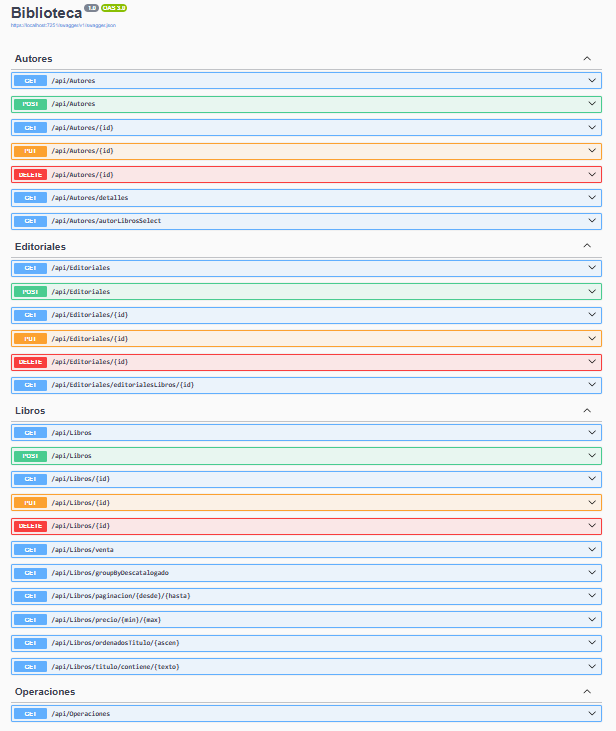
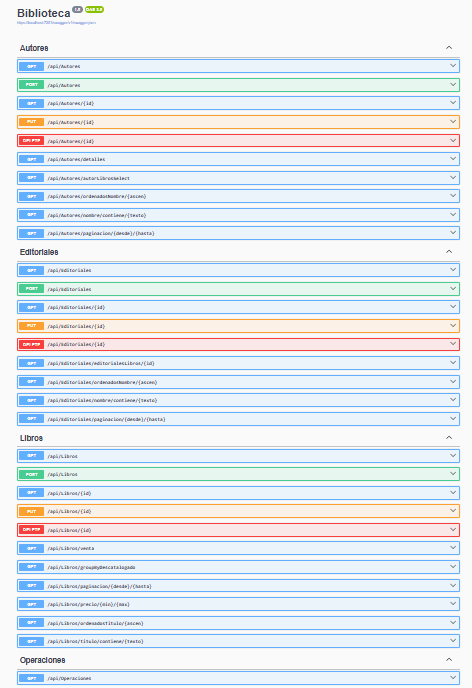
19.02.2025_Gets

Changed region(s): [[0.0, 0.0, 0.9788, 1.0]]

diff --git a/Biblioteca/Controllers/EditorialesController.cs b/Biblioteca/Controllers/EditorialesController.cs
@@ -1,4 +1,5 @@
 using Biblioteca.DTOs;
+using Biblioteca.Models;
 using Biblioteca.Services;
 using FluentValidation;
 using Microsoft.AspNetCore.Mvc;
@@ -53,6 +54,52 @@ namespace Biblioteca.Controllers
             }
 
             return Ok(editorial);
+        }
+
+        [HttpGet("ordenadosNombre/{ascen}")]
+        public async Task<ActionResult<IEnumerable<Editorial>>> GetEditorialesOrdenadasPorNombre(bool ascen)
+        {
+            await _operacionesService.AddOperacion("Obtener editoriales ordenadas por su nombre", "Editoriales");
+            var editoriales = await _editorialService.GetEditorialesOrdenadasPorNombre(ascen);
+
+            if (!editoriales.Any())
+            {
+                return NotFound("No se encontraron editoriales");
+            }
+
+            return Ok(editoriales);
+        }
+
+        [HttpGet("nombre/contiene/{texto}")]
+        public async Task<ActionResult<IEnumerable<Editorial>>> GetEditorialesPorNombreContiene(string texto)
+        {
+            await _operacionesService.AddOperacion("Obtener editoriales con el nombre que contiene", "Editoriales");
+            if (string.IsNullOrEmpty(texto))
+            {
+                return BadRequest("El texto de búsqueda no puede estar vacío.");
+            }
+
+            var editoriales = await _editorialService.GetEditorialesPorNombreContiene(texto);
+
+            if (!editoriales.Any())
+            {
+                return NotFound("No se encontraron editoriales que contengan el texto especificado.");
+            }
+
+            return Ok(editoriales);
+        }
+
+        [HttpGet("paginacion/{desde}/{hasta}")]
+        public async Task<ActionResult<IEnumerable<Editorial>>> GetEditorialesPaginados(int desde, int hasta)
+        {
+            await _operacionesService.AddOperacion("Obtener editoriales paginadas", "Editoriales");
+            if (hasta < desde)
+            {
+                return BadRequest("El máximo no puede ser inferior al mínimo");
+            }
+
+            var editoriales = await _editorialService.GetEditorialesPaginadas(desde, hasta);
+            return Ok(editoriales);
         }
 
         [HttpPost]

diff --git a/Biblioteca/Controllers/AutoresController.cs b/Biblioteca/Controllers/AutoresController.cs
@@ -1,4 +1,5 @@
 using Biblioteca.DTOs;
+using Biblioteca.Models;
 using Biblioteca.Services;
 using FluentValidation;
 using Microsoft.AspNetCore.Mvc;
@@ -67,6 +68,52 @@ namespace Biblioteca.Controllers
             }
 
             return Ok(autor);
+        }
+
+        [HttpGet("ordenadosNombre/{ascen}")]
+        public async Task<ActionResult<IEnumerable<Autor>>> GetAutoresOrdenadosPorNombre(bool ascen)
+        {
+            await _operacionesService.AddOperacion("Obtener autores ordenados por su nombre", "Autores");
+            var autores = await _autorService.GetAutoresOrdenadosPorNombre(ascen);
+
+            if (!autores.Any())
+            {
+                return NotFound("No se encontraron autores");
+            }
+
+            return Ok(autores);
+        }
+
+        [HttpGet("nombre/contiene/{texto}")]
+        public async Task<ActionResult<IEnumerable<Autor>>> GetAutoresPorNombreContiene(string texto)
+        {
+            await _operacionesService.AddOperacion("Obtener autores con el nombre que contiene", "Autores");
+            if (string.IsNullOrEmpty(texto))
+            {
+                return BadRequest("El texto de búsqueda no puede estar vacío.");
+            }
+
+            var autores = await _autorService.GetAutoresPorNombreContiene(texto);
+
+            if (!autores.Any())
+            {
+                return NotFound("No se encontraron autores que contengan el texto especificado.");
+            }
+
+            return Ok(autores);
+        }
+
+        [HttpGet("paginacion/{desde}/{hasta}")]
+        public async Task<ActionResult<IEnumerable<Autor>>> GetAutoresPaginados(int desde, int hasta)
+        {
+            await _operacionesService.AddOperacion("Obtener autores paginados", "Autores");
+            if (hasta < desde)
+            {
+                return BadRequest("El máximo no puede ser inferior al mínimo");
+            }
+
+            var autores = await _autorService.GetAutoresPaginados(desde, hasta);
+            return Ok(autores);
         }
 
         [HttpPost]

diff --git a/Biblioteca/Repository/EditorialRepository.cs b/Biblioteca/Repository/EditorialRepository.cs
@@ -38,6 +38,37 @@ namespace Biblioteca.Repository
             return editorial;
         }
 
+        public async Task<IEnumerable<Editorial>> GetEditorialesOrdenadasPorNombre(bool ascendente)
+        {
+            if (ascendente)
+            {
+                return await _context.Editoriales.OrderBy(x => x.Nombre).ToListAsync();
+            }
+            else
+            {
+                return await _context.Editoriales.OrderByDescending(x => x.Nombre).ToListAsync();
+            }
+        }
+
+        public async Task<IEnumerable<Editorial>> GetEditorialesPorNombreContiene(string texto)
+        {
+            return await _context.Editoriales
+                                 .Where(x => x.Nombre.Contains(texto))
+                                 .ToListAsync();
+        }
+
+        public async Task<IEnumerable<Editorial>> GetEditorialesPaginadas(int desde, int hasta)
+        {
+            if (hasta < desde)
+            {
+                throw new ArgumentException("El máximo no puede ser inferior al mínimo");
+            }
+
+            return await _context.Editoriales
+                .Skip(desde - 1)
+                .Take(hasta - desde + 1)
+                .ToListAsync();
+        }
         public async Task Add(Editorial editorial) =>
             await _context.Editoriales.AddAsync(editorial);
 

diff --git a/Biblioteca/Repository/AutorRepository.cs b/Biblioteca/Repository/AutorRepository.cs
@@ -54,6 +54,37 @@ namespace Biblioteca.Repository
                 .FirstOrDefaultAsync();
         }
 
+        public async Task<IEnumerable<Autor>> GetAutoresOrdenadosPorNombre(bool ascendente)
+        {
+            if (ascendente)
+            {
+                return await _context.Autores.OrderBy(x => x.Nombre).ToListAsync();
+            }
+            else
+            {
+                return await _context.Autores.OrderByDescending(x => x.Nombre).ToListAsync();
+            }
+        }
+
+        public async Task<IEnumerable<Autor>> GetAutoresPorNombreContiene(string texto)
+        {
+            return await _context.Autores
+                                 .Where(x => x.Nombre.Contains(texto))
+                                 .ToListAsync();
+        }
+
+        public async Task<IEnumerable<Autor>> GetAutoresPaginados(int desde, int hasta)
+        {
+            if (hasta < desde)
+            {
+                throw new ArgumentException("El máximo no puede ser inferior al mínimo");
+            }
+
+            return await _context.Autores
+                .Skip(desde - 1)
+                .Take(hasta - desde + 1)
+                .ToListAsync();
+        }
         public async Task Add(Autor autor) =>
             await _context.Autores.AddAsync(autor);
 

diff --git a/Biblioteca/Services/EditorialService.cs b/Biblioteca/Services/EditorialService.cs
@@ -45,6 +45,20 @@ namespace Biblioteca.Services
             return editorial;
         }
 
+        public async Task<IEnumerable<Editorial>> GetEditorialesOrdenadasPorNombre(bool ascendente)
+        {
+            return await _editorialRepository.GetEditorialesOrdenadasPorNombre(ascendente);
+        }
+
+        public async Task<IEnumerable<Editorial>> GetEditorialesPorNombreContiene(string texto)
+        {
+            return await _editorialRepository.GetEditorialesPorNombreContiene(texto);
+        }
+
+        public async Task<IEnumerable<Editorial>> GetEditorialesPaginadas(int desde, int hasta)
+        {
+            return await _editorialRepository.GetEditorialesPaginadas(desde, hasta);
+        }
         public async Task<EditorialDTO> Add(EditorialInsertDTO editorialInsertDTO)
         {
             var editorial = _mapper.Map<Editorial>(editorialInsertDTO);

diff --git a/Biblioteca/Services/AutorService.cs b/Biblioteca/Services/AutorService.cs
@@ -65,6 +65,20 @@ namespace Biblioteca.Services
             return await _autorRepository.GetAutorLibrosSelect(id);
         }
 
+        public async Task<IEnumerable<Autor>> GetAutoresOrdenadosPorNombre(bool ascendente)
+        {
+            return await _autorRepository.GetAutoresOrdenadosPorNombre(ascendente);
+        }
+
+        public async Task<IEnumerable<Autor>> GetAutoresPorNombreContiene(string texto)
+        {
+            return await _autorRepository.GetAutoresPorNombreContiene(texto);
+        }
+
+        public async Task<IEnumerable<Autor>> GetAutoresPaginados(int desde, int hasta)
+        {
+            return await _autorRepository.GetAutoresPaginados(desde, hasta);
+        }
         public async Task<AutorDTO> Add(AutorInsertDTO autorInsertDTO)
         {
             var autor = _mapper.Map<Autor>(autorInsertDTO);

diff --git a/Biblioteca/Repository/IAutorRepository.cs b/Biblioteca/Repository/IAutorRepository.cs
@@ -8,13 +8,9 @@ namespace Biblioteca.Repository
         Task<IEnumerable<Libro>> GetAutoresConDetalles();
         Task<AutorLibroDTO?> GetAutorLibrosSelect(int id);
         Task<bool> ExisteAutor(int autorId);
-
-        //Task<EditorialLibroDTO?> GetEditorialesLibrosEager(int id);
-        
-        
-        
-        
-        //Task<bool> ExisteEditorial(int editorialId);
+        Task<IEnumerable<Autor>> GetAutoresOrdenadosPorNombre(bool ascendente);
+        Task<IEnumerable<Autor>> GetAutoresPorNombreContiene(string texto);
+        Task<IEnumerable<Autor>> GetAutoresPaginados(int desde, int hasta);
     }
 }
 

diff --git a/Biblioteca/Services/IEditorialService.cs b/Biblioteca/Services/IEditorialService.cs
@@ -6,5 +6,8 @@ namespace Biblioteca.Services
     public interface IEditorialService : ICommonServiceBase<EditorialDTO, EditorialInsertDTO, EditorialUpdateDTO>
     {
         Task<EditorialLibroDTO> GetEditorialesLibrosEager(int id);
+        Task<IEnumerable<Editorial>> GetEditorialesOrdenadasPorNombre(bool ascendente);
+        Task<IEnumerable<Editorial>> GetEditorialesPorNombreContiene(string texto);
+        Task<IEnumerable<Editorial>> GetEditorialesPaginadas(int desde, int hasta);
     }
 }

diff --git a/Biblioteca/Repository/IEditorialRepository.cs b/Biblioteca/Repository/IEditorialRepository.cs
@@ -7,6 +7,9 @@ namespace Biblioteca.Repository
     {
         Task<EditorialLibroDTO?> GetEditorialesLibrosEager(int id);
         Task<bool> ExisteEditorial(int editorialId);
+        Task<IEnumerable<Editorial>> GetEditorialesOrdenadasPorNombre(bool ascendente);
+        Task<IEnumerable<Editorial>> GetEditorialesPorNombreContiene(string texto);
+        Task<IEnumerable<Editorial>> GetEditorialesPaginadas(int desde, int hasta);
     }
 }
 

diff --git a/Biblioteca/Services/IAutorService.cs b/Biblioteca/Services/IAutorService.cs
@@ -7,5 +7,8 @@ namespace Biblioteca.Services
     {
         Task<IEnumerable<AutorLibroDTO>> GetAutoresConDetalles();
         Task<AutorLibroDTO> GetAutorLibrosSelect(int id);
+        Task<IEnumerable<Autor>> GetAutoresOrdenadosPorNombre(bool ascendente);
+        Task<IEnumerable<Autor>> GetAutoresPorNombreContiene(string texto);
+        Task<IEnumerable<Autor>> GetAutoresPaginados(int desde, int hasta);
     }
 }
